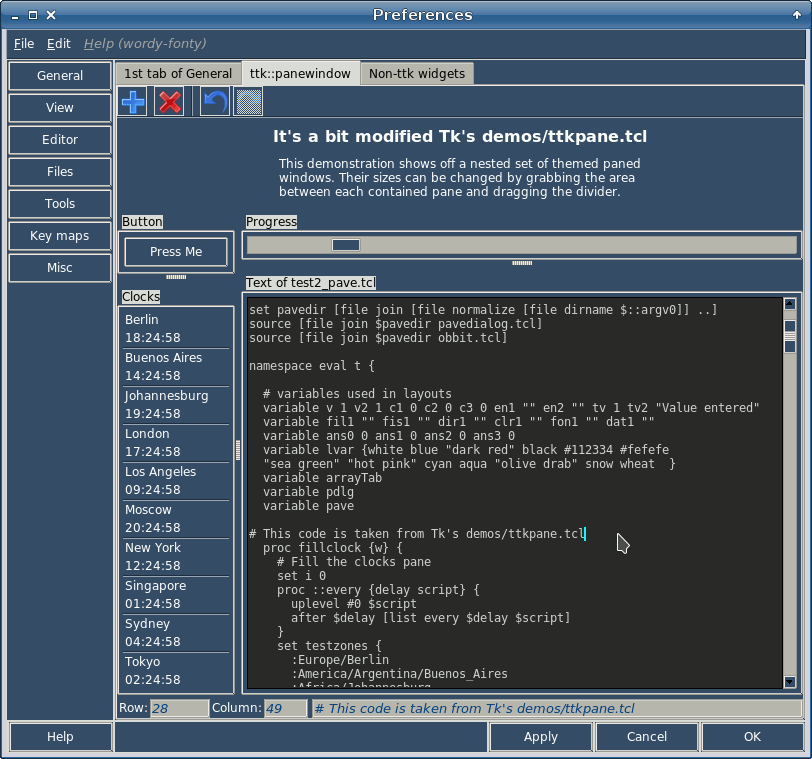
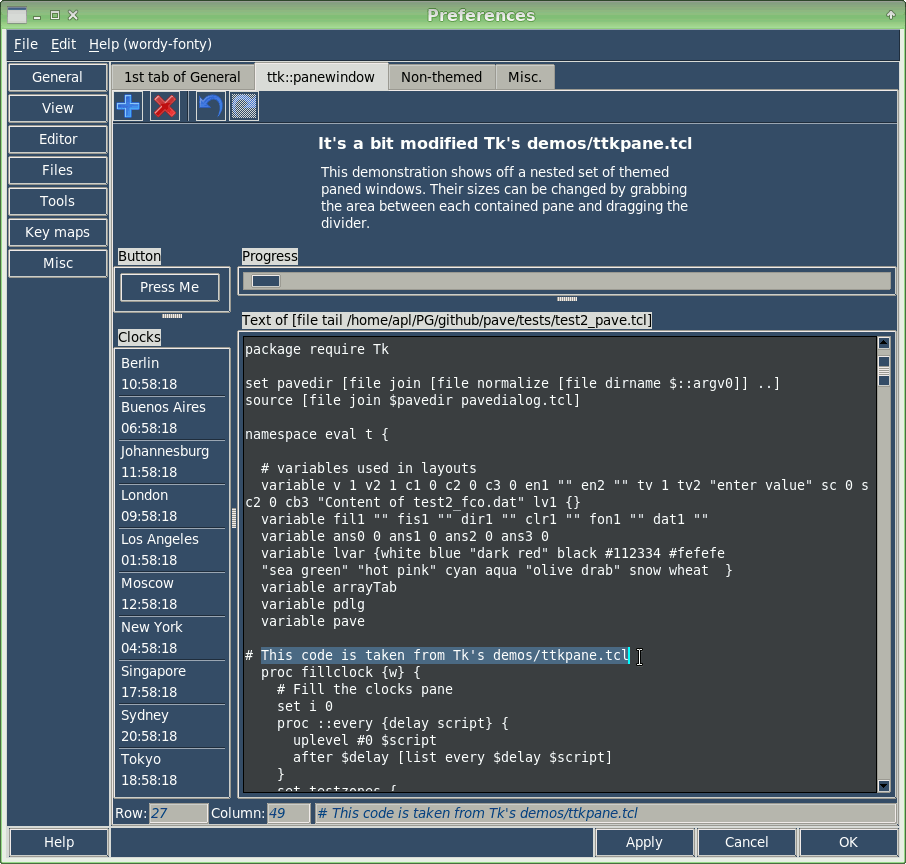
e_menu, pave docs updated

diff --git a/ru/misc/stream/streamyf.htm b/ru/misc/stream/streamyf.htm
@@ -69,7 +69,92 @@
 </P>
 
 <P align=justify>
-<B></B>
+<B>Анархия</B> - не свобода, а дисциплина - не рабство. Иван Павлов утверждал: <i>возбуждение - это свобода, торможение - это дисциплина</i>. Но только если эти возбуждения и торможения идут изнутри. Когда они внешние, это и есть анархия и рабство.
+</P>
+
+<P align=justify>
+<B>Кто</B> управляет хирургами и математиками? Юристы-экономисты. Те самые, которые в школе испытывали ужас перед вивисекцией лягушек и решением математических задач. Результат этого ужаса - наши "законы" и их "блюстители".
+</P>
+
+<P align=justify>
+<B>Зато</B> модная ныне  "ментальная арифметика" как нельзя лучше подходит юристам-экономистам. Это как чтение по диагонали - быстро, шустро, но не ищи в нем смысла. Если здесь присутствует какой-то "ум", тогда великие математики просто младенцы по сравнению с эквилибристами счета, а уж по сравнению с компьютером и вовсе зародыши.
+</P>
+
+<P align=justify>
+<B>Кубик</B> Рубика по сравнению с "менаром" - почти что высшая математика, хотя заядлый рубикоман мало чем отличается от ментального арифмометра.
+</P>
+
+<P align=justify>
+<B>Очень</B> много театральности вокруг. Это от обилия фото, видео, аудио. Прослушивание, просматриванье себя порождает желание "выглядеть" вместо "быть". Или наоборот? Скорее всего, это обычный порочный круг.
+</P>
+
+<P align=justify>
+<B>Устрани</B> театральность - и половина твоего окружения поблекнет.
+</P>
+
+<P align=justify>
+<B>Был</B> бы зеком - смотрел бы российское ТВ с упоением. Вот где куча материалов для размышления зекам!
+</P>
+
+<P align=justify>
+<B>Блюдо</B> под названием "российское ТВ" готовится из: сплетни, клеветы, хамства, воровства, шпионства, словоблудия, лизоблюдства, продажности, чванства, пьянства, бескультурья, дикости - и желания всю эту дребедень смотреть. При этом командир  дал установку "всем улыбаться и делать вид".
+</P>
+
+<P align=justify>
+<B>Мы</B> летим в самолете, который падает, и смотрим это ТВ. Ну, страна дураков, мля.
+</P>
+
+<P align=justify>
+<B>Зековское</B> правило <i>не верь, не бойся, не проси</i> я бы исправил так: <i>верь в Господа, бойся Господа, проси у Господа</i>. Так сказать, мирской вариант. Для воров-расстриг  и мирян.
+</P>
+
+<P align=justify>
+<B>Проблема</B> принятия решений в России: часто-густо они принимаются на пьяную голову, причем как на бытовом, так и на государственном уровне. Зачать ребенка? - только в зюзю пьяными (чтобы <a href="https://chiselapp.com/user/aplsimple/repository/aplsimple_github_io/uv/mom-why.jpg">родить олигофрена</a> и всю жизнь мучиться). Развалить СССР? - только в зюзю пьяными (чтобы потом ныть "ах, какую страну развалили").
+</P>
+
+<P align=justify>
+<B>Честертон</B> - очень западный человек, о чем он и говорит много раз, сравнивая западный и восточный стили мышления и жизни. Поэтому его стиль - чтобы было пестро, развлекательно и притом неопасно, комфортно.
+</P>
+
+<P align=justify>
+<B>Апостол</B> Иоанн не написал всех тех книг, о которых пишет: <i>но если бы писать о том подробно, то, думаю, и самому миру не вместить бы написанных книг</i>. Почему не написал хотя бы малую толику тех подробностей? Зарыл талант в землю? Вопрос батюшке.
+</P>
+
+<P align=justify>
+<B>Достоевский</B> знал, что такое ужас казнимого. Но есть еще ужас палача, точнее - всей цепочки палачей (судья - прокурор - охранник - палач), казнь отложится им в душу и гены потомков.
+</P>
+
+<P align=justify>
+<B>Снова</B> и снова полощут мозги о "расслоении общества" на бедных и богатых. Как будто этой проблеме не тысячи лет. Как будто не сказано 2000 лет назад: <i>удобнее верблюду пройти сквозь игольные уши, нежели богатому войти в Царствие Божие</i>.
+</P>
+
+<P align=justify>
+<B>Все</B> эти вопли о расслоении - в пользу богатых. Это им важно ощущать себя первыми и главными, беднякам и даром не нужно всей этой хрени. Как говаривал <a href="https://ru.wikipedia.org/wiki/%D0%9B%D1%8B%D0%BA%D0%BE%D0%B2%D1%8B_(%D0%BE%D1%82%D1%88%D0%B5%D0%BB%D1%8C%D0%BD%D0%B8%D0%BA%D0%B8)">старик Лыков</a>: <i>это нам не можно</i>. И не нужно.
+</P>
+
+<P align=justify>
+<B>Если</B> бы великим людям, с которыми <i>ушла эпоха</i>, заранее было известно, как их имя будут трепать после смерти, эти <i>великие</i> предпочли бы простую судьбу простого человека, который умер неизвестным, при этом жил красиво и независимо, а помнится у Господа.<i> That's all ye need to know.</i>
+</P>
+
+<P align=justify>
+<B>Хочешь</B> испортить человека - сделай ему комплимент. Похвали. Прославь. Этот прием "психологического подрыва" успешно применяется в спорте.
+</P>
+
+<P align=justify>
+<B>Как</B> тренировать реакцию в домашних условиях? Берем резиновый предмет, например, кистевой эспандер, вырезаем из него кусок 3 на 3 см и корнаем его так, чтобы было побольше неровностей. Потом этим изделием стучим по стене/доске, пытаясь поймать. Предмет отскакивает непредсказуемо - отсюда и тренировка реакции. Полезное качество иногда.
+</P>
+
+<P align=justify>
+<B>Будущему</B> <b>п</b>ро<b>г</b>р<b>а</b>ммисту - правило <b>ПГА</b>:
+<ul>
+<li><b>П</b>амять либо пьянство (выбирай одно из двух!)</li>
+<li><b>Г</b>лаза береги смолоду (гимнастика для глаз обязательна!)</li>
+<li><b>А</b>нглийский язык знай, как родной (sine qua non!)</li>
+</ul>
+</P>
+
+<P align=justify>
+<B>Созданы</B> двое - мужчина и женщина. А что, если бы было три родителя? 4, 5, 6 ...? То-то генетического разнообразия прибавилось бы.
 </P>
 
 <P align=justify>
@@ -79,23 +164,6 @@
 <P align=justify>
 <B></B>
 </P>
-
-<P align=justify>
-<B></B>
-</P>
-
-<P align=justify>
-<B></B>
-</P>
-
-<P align=justify>
-<B></B>
-</P>
-
-<P align=justify>
-<B></B>
-</P>
-
 
 <div>
 <A id=spr1 href="stream.html"><span class=bg1>&lt;-&nbsp; Назад &nbsp;</span></a>

diff --git a/en/tcl/pave/index.html b/en/tcl/pave/index.html
@@ -619,10 +619,15 @@ The <span class="curid"><a href="http://tcl.tk/man/tcl8.7/TkCmd/pack.htm" class=
 		<tr><td class="col0"> <em>men*</em> </td><td class="col1"> menubar </td><td class="col2"> </td><td class="col3"> The menubar (containing the menubar items, see examples in <a href="#test2_pave">test2_pave.tcl</a>)</td></tr>
 		<tr><td class="col0"> <em>too*</em> </td><td class="col1"> toolbar </td><td class="col2"> </td><td class="col3"> The toolbar (containing images and commands, see examples in <a href="#test2_pave">test2_pave.tcl</a>)</td></tr>
 		<tr><td class="col0"> <em>sta*</em> </td><td class="col1"> statusbar </td><td class="col2"> </td><td class="col3"> The statusbar (containing fields for hints, see examples in <a href="#test2_pave">test2_pave.tcl</a>)</td></tr>
-		<tr><td class="col0"> <em>fco*</em> </td><td class="col1"> file content combobox </td><td class="col2"> </td><td class="col3">The file content combobox presents text file(s) content. Its <em>values</em> attribute is set like this:
+		<tr><td class="col0"> <em>fco*</em> </td><td class="col1"> file content combobox </td><td class="col2"> </td><td class="col3">The file content combobox presents text file(s) content. Its <em>-tvar</em> attribute sets a variable name for storing a result,
+    while <em>-values</em> attribute is set like this:
 <br>
-  &nbsp;&nbsp;&nbsp;-values {TEXT1 \@-div1 \" &lt;\" -div2 &gt; test1.txt\@ TEXT2 \@-pos 10 -len 20 test2.txt\@ ... TEXTN}
+  &nbsp;&nbsp;&nbsp;-values {TEXT1 /@-div1 \" &lt;\" -div2 &gt; test1.txt/@ TEXT2 /@-pos 10 -len 20 test2.txt/@ ... TEXTN}
     <br>See an example in <a href="#test2_pave">test2_pave.tcl</a>, the <em>General / Misc</em> tab.</td></tr>
+		<tr><td class="col0"> <em>flb*</em> </td><td class="col1"> file listbox </td><td class="col2"> </td><td class="col3">The file listbox presents text file(s) content. Its <em>-lvar</em> attribute sets a variable name for storing a result, while <em>-values</em> attribute is set like this:
+<br>
+  &nbsp;&nbsp;&nbsp;-values {TEXT1 /@-div1 \" &lt;\" -div2 &gt; test1.txt/@ TEXT2 /@-pos 10 -len 20 test2.txt/@ ... TEXTN}
+    <br>See an example in <a href="#test2_pave">test2_pave.tcl</a>, the <em>View</em> tab.</td></tr>
 	</tbody>
 </table>
 </div>
@@ -895,7 +900,7 @@ In ./tests directory of <a href="#download">downloaded pave.zip</a> there are al
 </div></li>
 <li><div class="li"><code>test_pavedialog.tcl</code> - a demo of dialogs using <code>PaveDialog</code> oo::class described <a href="#use_PaveDialog">below</a>.
 </div></li>
-<li><div class="li"><code>test_property.tcl</code> - a demo of <code>ObjectProperty</code> oo::class that may be mixined to the <span class="curid"><a href="#" class="wikilink1" title="Table of Contents">pave</a></span> objects.
+<li><div class="li"><code>test_property.tcl</code> - a demo of <code>ObjectProperty</code> oo::class that may be mixin'ed to the <span class="curid"><a href="#" class="wikilink1" title="Table of Contents">pave</a></span> objects.
 </div></li>
 </p>
 </div>
@@ -905,16 +910,25 @@ In ./tests directory of <a href="#download">downloaded pave.zip</a> there are al
 </p>
 
 <p>
-<img src="files/test2.png" class="media" alt="TKE plugin using pave">
+<img src="files/test2.png" class="media" alt="test2_pave.tcl">
 </p>
 
 <br>
-<p id=test2_pave>... and its themed version:
+<p>... and its themed version:
 </p>
 
 <p>
-<img src="files/test2t.png" class="media" alt="TKE plugin using pave">
+<img src="files/test2t.png" class="media" alt="test2_pave.tcl">
 </p>
+
+<br>
+<p>... and its themed non-ttk widgets:
+</p>
+
+<p>
+<img src="files/test2nt.png" class="media" alt="test2_pave.tcl">
+</p>
+
 <br>
 <p>
 ... and here is a video of it:<br>
@@ -1403,17 +1417,15 @@ In fact, the <em>PaveMe window</em> method can take as many "window/container & 
  <pre class="code">pobj window .win.fNB.nb.f1 {
   ...
 }
-after idle [list fillMenu_Binding_Etc $w]</pre>
+after idle [list ::NS::fillMenu_Binding_Etc $w]</pre>
  <p>
 However, the main menu bar can be made in a call of <em>PaveMe window</em>. See the example in <b>test2_pave.tcl</b>.
 </p>
 <p>
 
-<b>8.</b> The theming facility is enabled by <em>ObjectTheming oo::class</em> (of <em>obbit.tcl</em>).
+<b>8.</b> The theming facility is enabled by <em>ObjectTheming oo::class</em> (of <em>obbit.tcl</em>) that is mixin'ed into PaveMe oo::class.
  <br>For example, it's used in <b>test2_pave.tcl</b> as follows:
- <pre class="code">source [file join $pavedir obbit.tcl]
-...
-oo::define PaveMe {mixin ObjectTheming}
+ <pre class="code">
 PaveMe create pobj
 ...
 pobj themingWindow .win \
@@ -1437,7 +1449,7 @@ The theming colors are actual for ttk as well as non-ttk widgets. This is seen o
 </p>
 
 <p>
-<b>9.</b> A question is when to call the <em>pobj themingWindow</em>? You might consider the following ways:
+<b>9.</b> A question is when should <em>pobj themingWindow</em> be called? You might consider the following ways:
  <ul>
 <li>If it were called <u>before</u> <em>pobj window</em>, the theming would embrace only ttk widgets.</li>
 <li>If it were called <u>after</u> <em>pobj window</em>, the theming would embrace all widgets including the non-ttk.</li>

diff --git a/en/tcl/e_menu/index.html b/en/tcl/e_menu/index.html
@@ -3048,6 +3048,12 @@ That's all. For calling <a href="#" class="wikilink1" title="Table of Contents">
 </p>
 
 <p>
+Thus, <a href="#" class="wikilink1" title="Table of Contents">e_menu</a> is available in <a href="http://www.wingware.com/downloads/wing-personal" title="Free Wing Personal 7">Wing Personal 7</a>:
+<br>
+<img src="files/em-wing.png" class="media" alt="e_menu called from Wing Personal 7">
+</p>
+
+<p>
 By the way, I've found a rather annoying issue with <a href="http://www.wingware.com/" title="Wing Python IDE">Wing Python IDE</a> in my Xfce WM, namely the Wing's window is enlarged from session to session (by 10 pixels to bottom and right). The following lines of <em>~/.wingpersonal7/default.wpr</em> are responsible for this artefact:
 <pre class="code">        'window-alloc': (0,
                          26,
@@ -3123,6 +3129,13 @@ Our <a href="#" class="wikilink1" title="Table of Contents">e_menu</a> is plugge
 <p>
 You may also customize the toolbar by right-clicking it and adding (<em>Add after...</em>) the <em>External tools / emenu</em>.
 </p>
+
+<p>
+Thus, <a href="#" class="wikilink1" title="Table of Contents">e_menu</a> is available in <a href="https://www.jetbrains.com/pycharm/" title="PyCharm IDE">PyCharm</a>:
+<br>
+<img src="files/em-pycharm.png" class="media" alt="e_menu called from PyCharm IDE">
+</p>
+
 <p>
 By the way, I didn't find the "current word under caret" among PyCharm's macros. It seems <a href="http://www.wingware.com/" title="Wing Python IDE">Wing</a> is a good competitor for <a href="https://www.jetbrains.com/pycharm/" title="PyCharm IDE">PyCharm</a> as for extensions. Perhaps, for the rest as well.
 </p>
@@ -3145,6 +3158,12 @@ wish "~/.tke/e_menu/e_menu/e_menu.tcl" "md=~/.tke/plugins/e_menu/menus" m=menu.m
 ... and call the script from Caja's popup menu to process a current file or directory with any thinkable command.
 </p>
 <p>
+Thus, <a href="#" class="wikilink1" title="Table of Contents">e_menu</a> is available in <a href="https://github.com/mate-desktop/caja" title="Caja file manager">Caja</a> file manager:
+<br>
+<img src="files/em-caja.png" class="media" alt="e_menu called from Caja file manager">
+</p>
+<br>
+<p>
 <b>2.</b> The <a href="https://github.com/GNOME/nautilus" title="Nautilus file manager">Nautilus</a> file manager stores its scripts in the <em>~/.local/share/nautilus/scripts</em> directory. Put there the following script:
 <pre class="code">#! /bin/bash
 # Runs e_menu. Install this into ~/.local/share/nautilus/scripts
@@ -3154,6 +3173,12 @@ wish "~/.tke/e_menu/e_menu/e_menu.tcl" "md=~/.tke/plugins/e_menu/menus" m=menu.m
   "TF=$NAUTILUS_SCRIPT_SELECTED_FILE_PATHS" "z2=$NAUTILUS_SCRIPT_SELECTED_FILE_PATHS" "z5=~" &amp; </pre>
 ... and call the script from Nautilus' popup menu to process a current file or directory with any thinkable command.
 </p>
+<p>
+Thus, <a href="#" class="wikilink1" title="Table of Contents">e_menu</a> is available in <a href="https://github.com/GNOME/nautilus" title="Nautilus file manager">Nautilus</a> file manager:
+<br>
+<img src="files/em-nautilus.png" class="media" alt="e_menu called from Nautilus file manager">
+</p>
+<br>
 <p>
 <b>3.</b> The <a href="https://github.com/linuxmint/nemo" title="Nemo file manager">Nemo</a> file manager stores its scripts in the <em>~/.local/share/nemo/scripts</em> directory. Put there the following script:
 <pre class="code">#! /bin/bash
@@ -3166,6 +3191,11 @@ wish "~/.tke/e_menu/e_menu/e_menu.tcl" "md=~/.tke/plugins/e_menu/menus" m=menu.m
 </p>
 <p>
 <b>Note</b>: you should write the correct pathes in the above scripts, specifically for <em>e_menu.tcl</em> as well as <em>md=</em> and <em>PD=</em> arguments explained in <a href="#calling_e_menu">Calling e_menu</a>.
+</p>
+<p>
+Thus, <a href="#" class="wikilink1" title="Table of Contents">e_menu</a> is available in <a href="https://github.com/linuxmint/nemo" title="Nemo file manager">Nemo</a> file manager:
+<br>
+<img src="files/em-nemo.png" class="media" alt="e_menu called from Nemo file manager">
 </p>
 
 <p><br></p></div>

diff --git a/ru/zoo/this.js b/ru/zoo/this.js
@@ -24,7 +24,7 @@ function writeHeader(prntdir) {
         <a href="'+prntdir+'misc/running/running.html" id=nav2   title="Бегу и прочей ерунде посвящается">Бег</a> \
         <a href='+homeLINK+'/index.html id=helpme title="Switch to English pages"> \
         <img id="flagimg" height=14 width=14 src="'+prntdir+'zoo/en.png"> \
-        <span id=flagcont>&nbsp;to English</span></a> \
+        <span id=flagcont>&nbsp;English</span></a> \
       </div> \
     </header>');
 }

diff --git a/en/zoo/this.js b/en/zoo/this.js
@@ -22,7 +22,7 @@ function writeHeader() {
         <a href="../../misc/links/links.html" id=nav2   title="Some links">Links</a> \
         <a href='+homeLINK+'/ru/index.html id=helpme title="Switch to Russian pages"> \
         <img id="flagimg" height=14 width=14 src="../../zoo/ru.png"> \
-        <span id=flagcont>&nbsp;to Russian</span></a> \
+        <span id=flagcont>&nbsp;Russian</span></a> \
       </div> \
     </header>');
 }

diff --git a/zoo/this.js b/zoo/this.js
@@ -21,7 +21,7 @@ function writeHeader() {
         <a href="en/misc/links/links.html" id=nav2   title="Some links">Links</a> \
         <a href='+homeLINK+'/ru/index.html id=helpme title="Switch to Russian pages"> \
         <img id="flagimg" height=14 width=14 src="en/zoo/ru.png"> \
-        <span id=flagcont>&nbsp;to Russian</span></a> \
+        <span id=flagcont>&nbsp;Russian</span></a> \
       </div> \
     </header>');
 }
